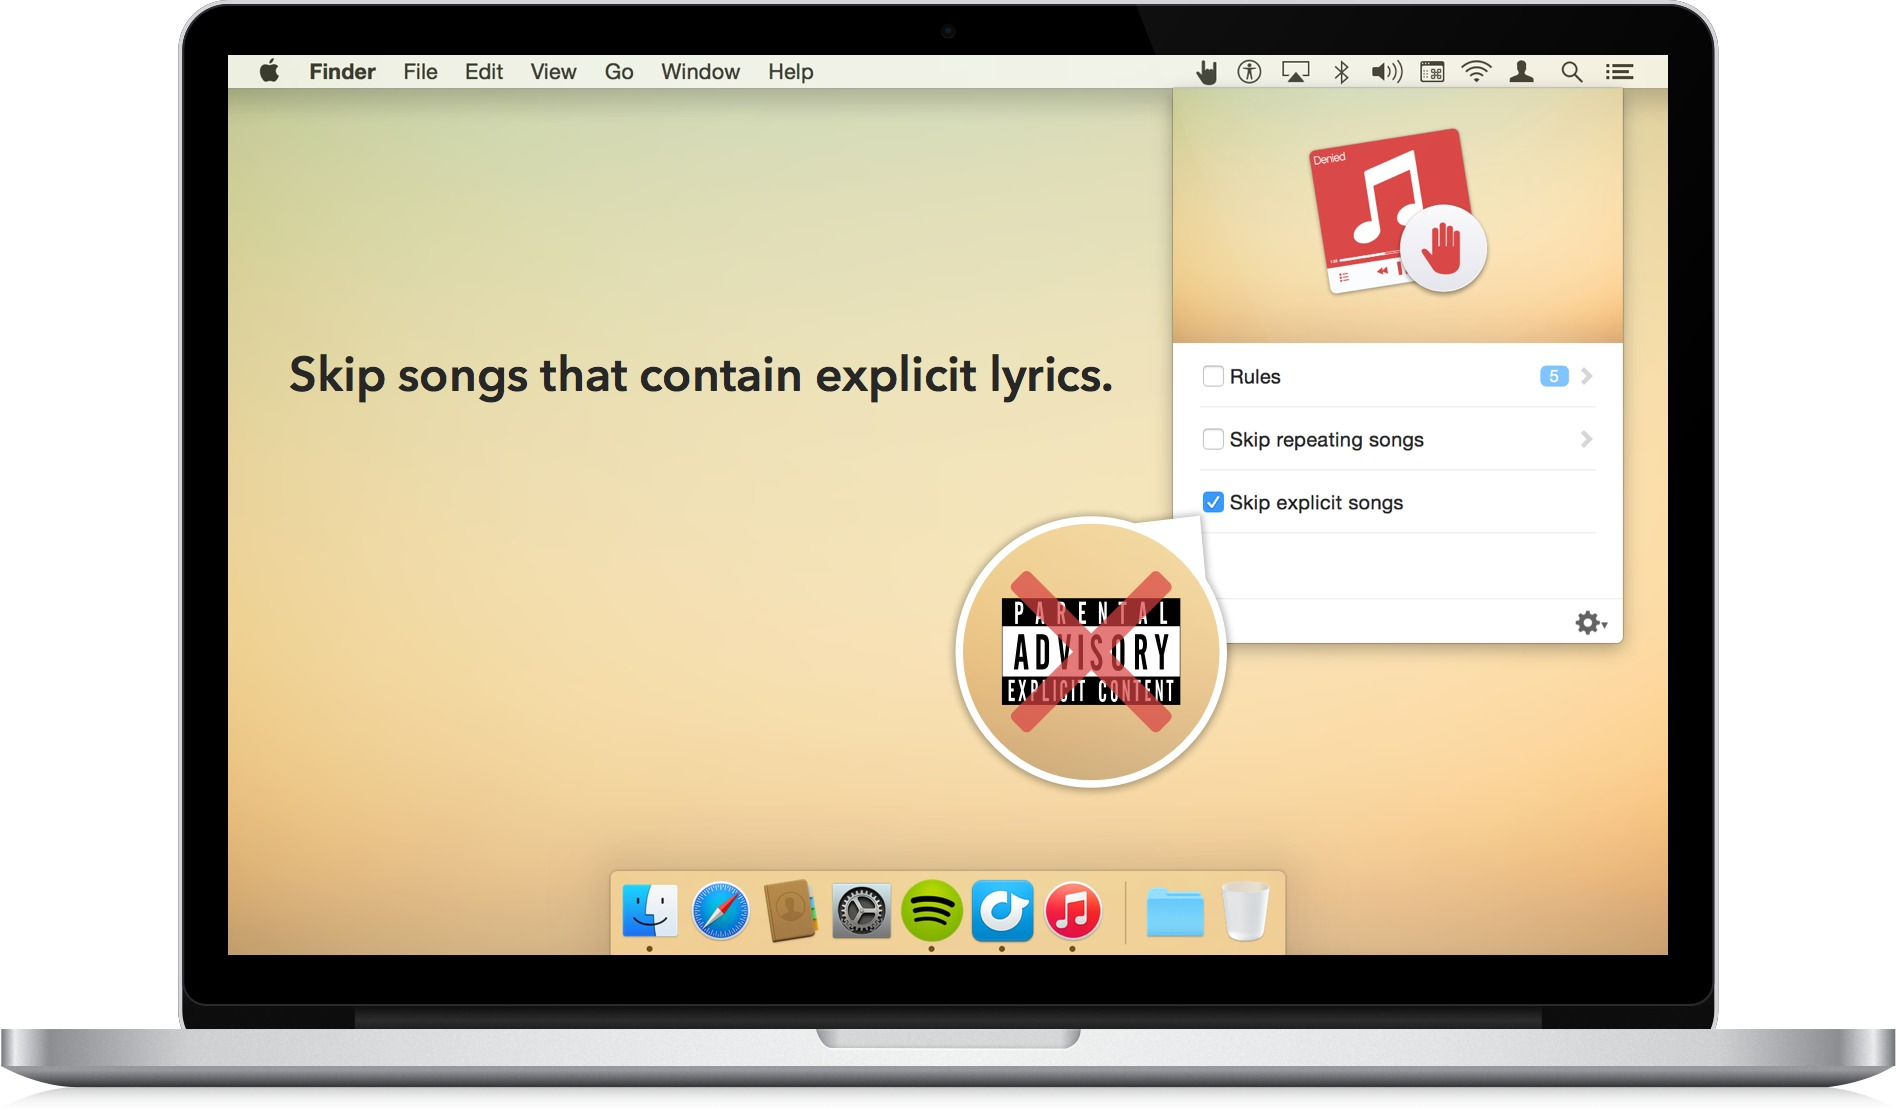
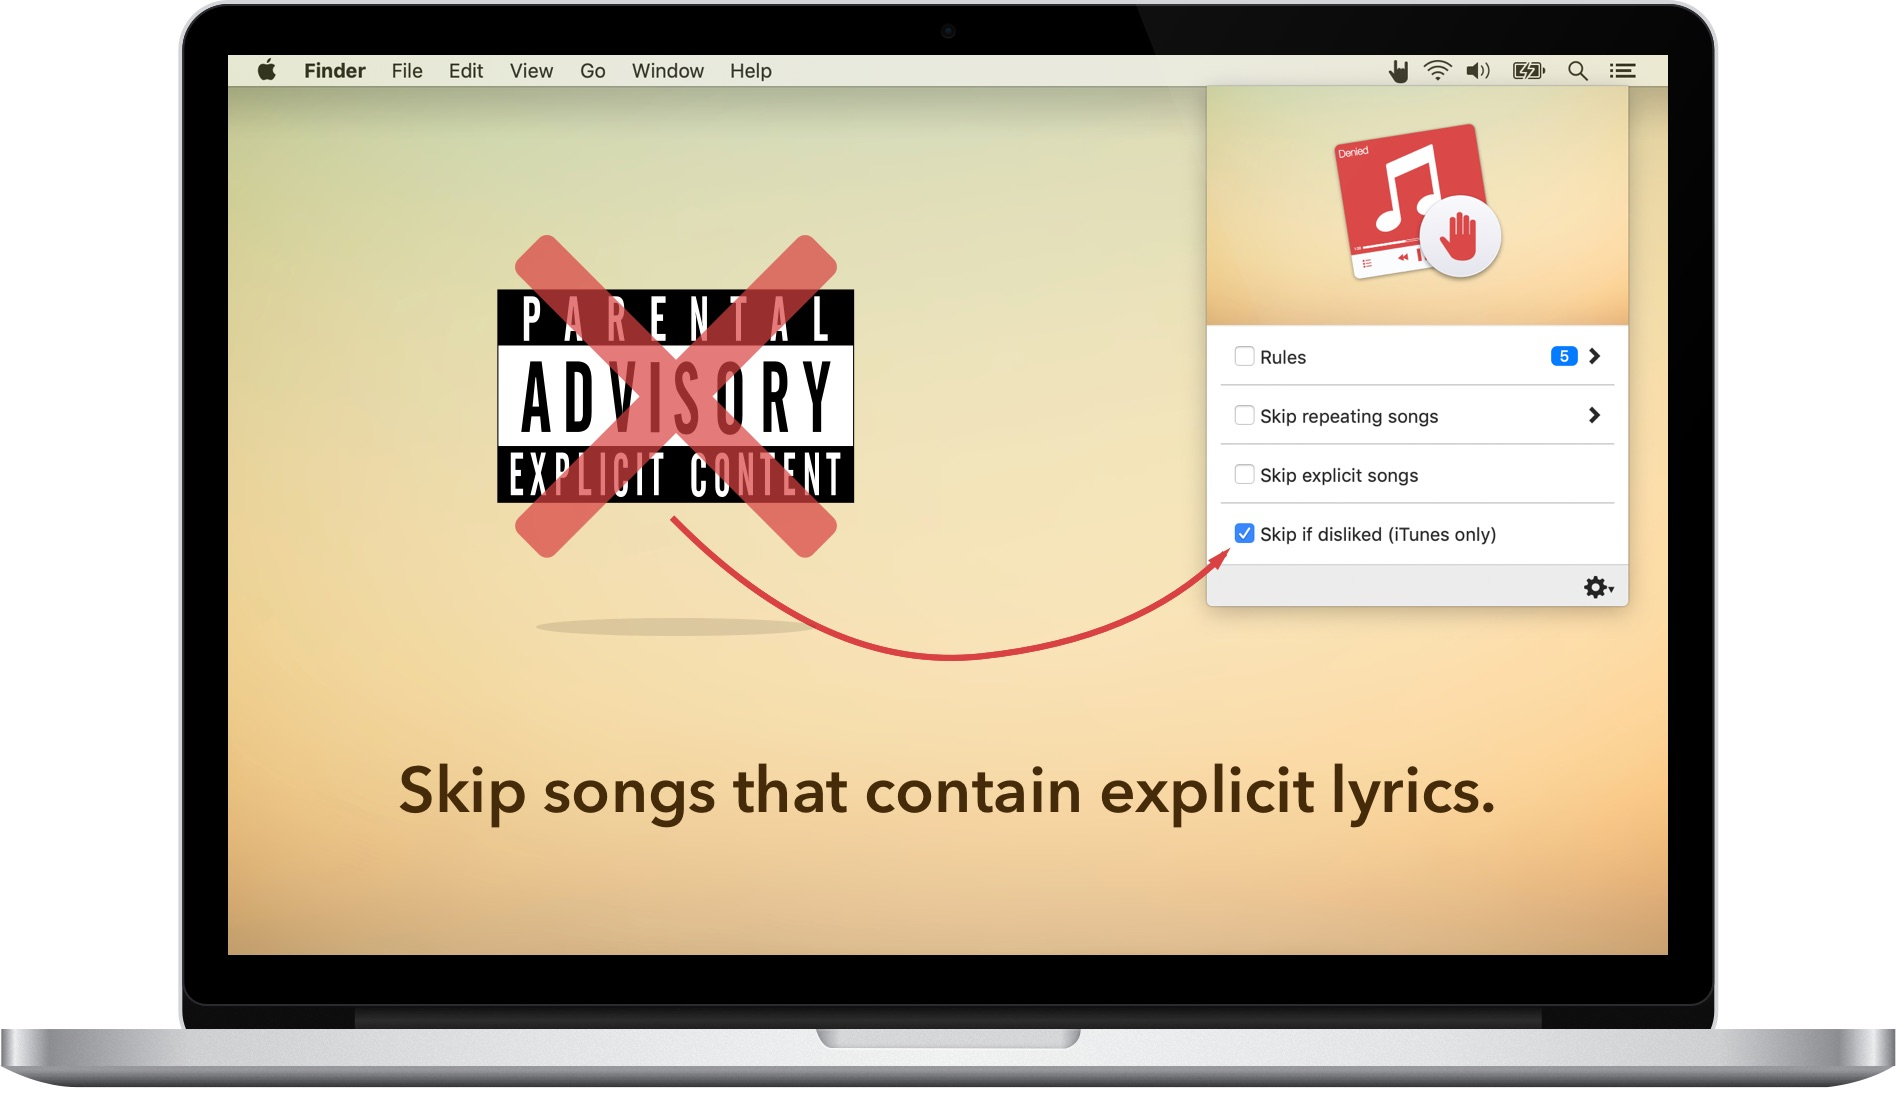
Introduce version 1.5

diff --git a/app/index.html b/app/index.html
@@ -74,36 +74,51 @@ tagline: saves your ears<br>from Nickelback
   </div>
 </section>
 
+<section id="skip-disliked" class="feature">
+  <div class="row">
+    <div class="large-6 columns">
+      <div class="macbook-screenshot-container">
+        <img src="/img/skip-disliked@2x.jpg" alt="Denied skips songs that are disliked in iTunes">
+      </div>
+    </div>
+    <div class="large-6 column">
+      <h2>Skip disliked songs</h2>
+      <p>Mark a song as 'disliked' in iTunes and Denied will automatically skip over it.</p>
+      <p><small>Currently works with iTunes and Apple Music only.</small></p>
+    </div>
+  </div>
+</section>
+
 <section id="repeating" class="feature bordered">
   <div class="row">
+    <div class="large-6 columns">
+      <h2>Block repeating tracks</h2>
+      <p>Automatically block tracks that you've played before in the past few hours.</p>
+    </div>
     <div class="large-6 columns">
       <div class="macbook-screenshot-container">
         <img src="/img/repeating-settings@2x.jpg" alt="Denied showing the repeat filter settings">
       </div>
-    </div>
-    <div class="large-6 columns">
-      <h2>Skip repeating tracks</h2>
-      <p>Automatically skip tracks that you've played before in the past few hours.</p>
     </div>
   </div>
 </section>
 
 <section id="works-with">
   <div class="container text-center">
-    <h2>Works with Spotify and iTunes</h2>
+    <h2>Works with Spotify and iTunes (Apple Music)</h2>
     <div class="text-center">
       <p>
         <img src="/img/app-icons/spotify-256x256.png" alt="Spotify app icon">
         <img src="/img/app-icons/itunes-256x256.png" alt="iTunes app icon">
       </p>
     </div>
-    <p>Whether you want to block songs while listening to Spotify Radio or your iTunes librabry,<br>Denied has you covered.</p>
+    <p>Whether you want to block songs while listening to Spotify Radio, Apple Music or your iTunes library,<br>Denied has you covered.</p>
   </div>
 </section>
 
 <section id="dark-mode" class="feature bordered">
   <div class="screenshot-container">
-    <img src="/img/macbook-darkmode-with-caption-soon@2x.png" alt="Denied looks stunning in Mojave's new Dark Mode">
+    <img src="/img/macbook-darkmode@2x.png" alt="Denied looks stunning in Mojave's new Dark Mode">
   </div>
   <div class="container">
     <div class="row">
@@ -111,11 +126,10 @@ tagline: saves your ears<br>from Nickelback
         <h2>Stunning in Dark Mode</h2>
       </div>
       <div class="medium-6 columns">
-        <p>Apple's new iteration of macOS will introduce a brand new option that allows you to turn the entire interface dark. The fittingly called <em>Dark Mode</em> soothes your eyes in low light environments and feels raw and powerful.</p>
+        <p>Apple's latest macOS update introduces a brand new option that allows you to turn the entire interface dark. The fittingly called <em>Dark Mode</em> soothes your eyes in low light environments and feels raw and powerful.</p>
       </div>
       <div class="medium-6 columns">
-        <p>From launch Denied will be ready to support this new display mode. It even takes advantage of the customizable accent color. <a href="/appstore">Coming soon!</a></p>
-        <p><small>I expect macOS Mojave to come out late September 2018.</small></p>
+        <p>From launch Denied is ready to support this new display mode. It even takes advantage of the customizable accent color. <a href="/appstore">Get it now.</a></p>
       </div>
     </div>
   </div>
@@ -143,7 +157,7 @@ tagline: saves your ears<br>from Nickelback
   <div class="container">
     <h2><i class="fa fa-check"></i> Requirements</h2>
     <ul>
-      <li>Works with the <a href="http://www.spotify.com" target="_blank">Spotify</a> and iTunes.</li>
+      <li>Works with the <a href="http://www.spotify.com" target="_blank">Spotify</a> and iTunes (Apple Music).</li>
       <li>Requires a Mac running macOS 10.10 or higher.</li>
       <li>A distaste for certain bands, songs or albums, explicit lyrics or repeating tracks.</li>
     </ul>

diff --git a/app/_posts/2018-09-24-dark-mode-and-skip-disliked-songs.md b/app/_posts/2018-09-24-dark-mode-and-skip-disliked-songs.md
@@ -1,0 +1,35 @@
+---
+layout: post
+title: "Introducing Dark Mode and Skipping Disliked Songs (in iTunes)"
+date: 2018-09-20 08:00:00
+categories: [updates]
+description: I released an update that introduces Dark Mode and skipping disliked songs.
+---
+
+Apple has released [the latest version of macOS](https://www.apple.com/macos/mojave/) to the public. The prominent new feature Mojave introduces is a new graphical theme, that Apple has dubbed Dark Mode. It's a gorgeous, rough, yet elegant way to present the operating system you're familiar with. Apps that customize their interface to take full advantage of Dark Mode look right at home and feel great to use. 
+
+I'm very proud to say that Denied supports Dark Mode from day one.
+
+![Dark Mode](/news/img/macbook-darkmode-with-caption@2x.jpg)
+
+<!-- more -->
+
+While updating the color palette I took the opportunity to re-evaluate all the buttons, switches and other interface elements. Denied was released in 2014 and with this release it's more than ready for 2018 and beyond. You'll notice that it looks stunning in a lighter theme and on previous versions of macOS as well.
+
+## Skipping disliked songs
+
+This has been a much requested feature and I'm happy to say that it's finally here. iTunes and Apple Music allow us to mark specific songs as disliked. It's a quick and easy way to let iTunes know that you don't want to hear a specific track. You'll be surprised to learn that this doesn't actually prevent iTunes from playing these songs, though.
+
+With the latest update of Denied this can been corrected. If enabled, Denied will will automatically skip over songs being played on iTunes or Apple Music if they're disliked.
+
+<small>A similar feature exists in Spotify, but the property isn't accessible to third-party applications (like Denied). I'm regularly checking if this changes.</small>
+
+## Skipping explicit songs updated
+
+I've switched to a new way of checking songs for explicit content. This updated method should be more reliable with more people using Denied every day. I tested it thoroughly and didn't notice any downsides. 
+
+If you do pick up on a negative (or positive!) change in how Denied handles explicit tracks, [send me a message](/support).
+
+## Get version 1.5 now
+
+I'm pretty stoked about this update and I think you'll be too. [Get version 1.5 in the App Store](/appstore) and consider leaving a five star review while you're there. Reviews are immensely helpful in getting more people to notice Denied, plus it'll make my day.

diff --git a/app/_posts/2018-07-12-shipped-an-update.md b/app/_posts/2018-07-12-shipped-an-update.md
@@ -2,7 +2,7 @@
 layout: post
 title: "Shipped an update!"
 date: 2018-07-12 08:00:00
-categories: []
+categories: [updates]
 description: I released an update that fixes a crashing bug.
 ---
 
@@ -11,6 +11,8 @@ Denied has been my favorite project since it first came out in 2014. Still, it t
 Maybe you've heard of [Apple's latest iteration of macOS called Mojave](https://www.apple.com/macos/mojave-preview/), due for release this fall. Besides a lot of behind-the-scenes upgrades, it comes with a brand new Dark Mode. I'm stoked about making Denied look awesome with it enabled.
 
 ![Keynote in macOS Mojave's Dark Mode](/news/img/mojave-darkmode@2x.jpg)
+
+<!-- more -->
 
 The update I just released also addresses a bug that could cause Denied to crash. According to my information this was the only one in the app and I'm happy that it's resolved. A side effect is that there's now a new option: "Pause When Filter Fails" which is off by default. This preference let's you indicate if you want to pause playback if Denied is unable to execute a filter. Currently, this only applies to the 'Skip explicit songs' filter as it could fail to retrieve the information from the internet.
 
